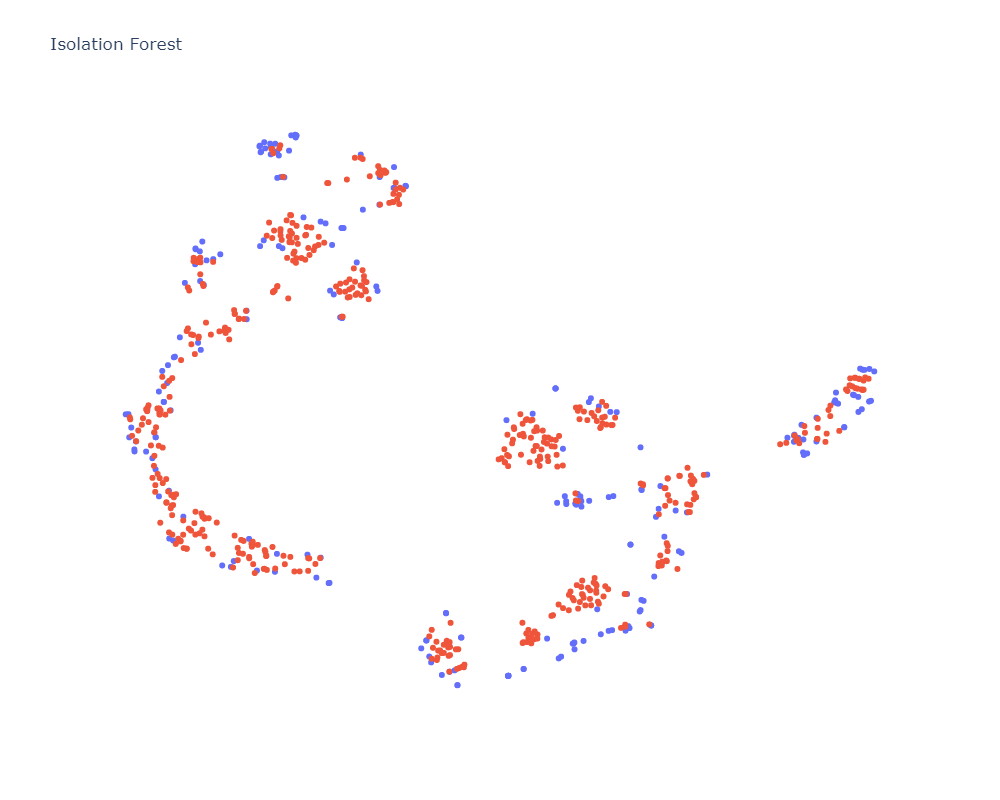
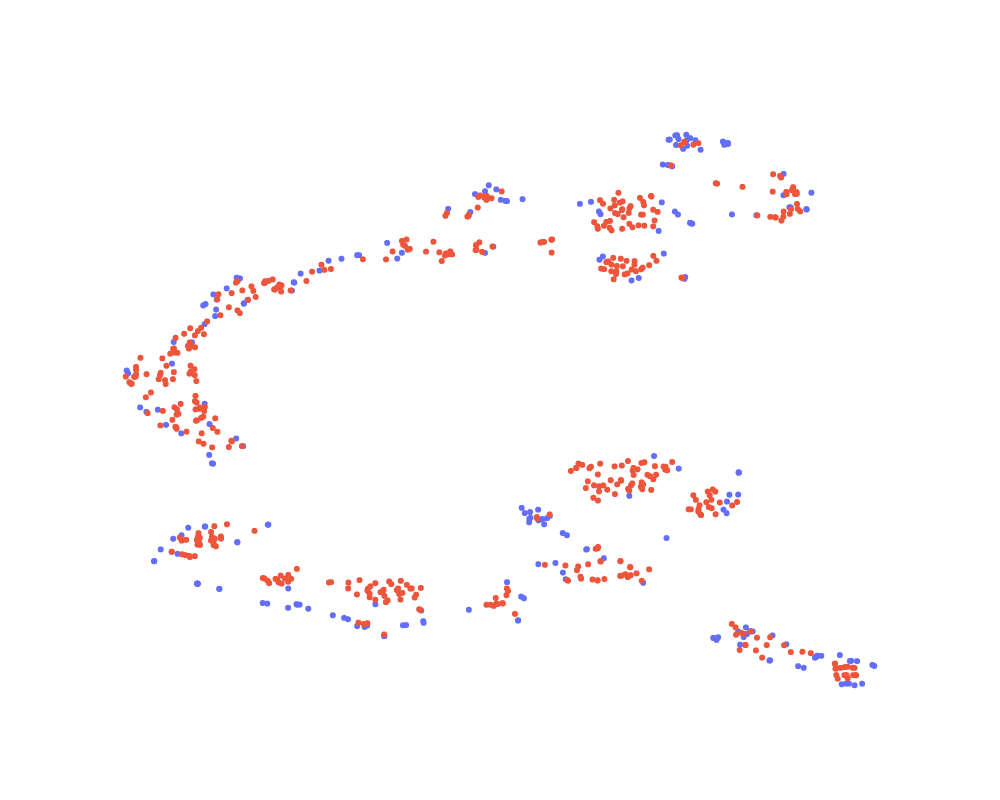
termino el dash

diff --git a/dashboard/index.html b/dashboard/index.html
@@ -209,15 +209,18 @@
     <!--Modelo-->
     <section id="Modelo">
       <div class="container-fluid">
+
+
         <div class="row">
 
           <div class="col-12 col-lg-6 pl-0 pr-0">
 
-            <!-- <img src="assets/results/matriz.png" alt="matriz"> -->
-
             <div id="carouselExampleSlidesOnly" class="carousel slide" data-bs-ride="carousel">
               <div class="carousel-inner">
                 <div class="carousel-item active">
+                  <img src="assets/images/outliers2.png" class="d-block w-100" alt="Outliers">
+                </div>
+                <div class="carousel-item">
                   <img src="assets/images/isolationforest.png" class="d-block w-100" alt="Isolation forest">
                 </div>
                 <div class="carousel-item">
@@ -233,16 +236,17 @@
           </div>
           
           <div class="col-12 col-lg-6 pt-4 pb-4">
-            
-            <!-- <img src="assets/results/precision.png" alt="precision"> -->
+
             <h2>Modelos</h2>
-            <p>Se Ajustaron 3 modelos, una Red Neuronal Convolucional, un Bosque Aleatorio y una Regresión Logística. Se calificaron con las métricas de f1_score, accuracy, precision_score, recall_score y matriz de confusión, dándole más relevancia a esta última.</p>
+            <p> Se Ajustaron 3 modelos, un local outlier Factor, un unsupervised Outlier Detection y un isolation forest (ISO). Posteriormente se utilizó método de voting classifier para elegir los atípicos. </p>
 
             <button type="button" class="btn btn-green" data-bs-toggle="modal" data-bs-target="#modalCode"> Codigo </button>
           
           </div>
 
         </div>
+
+        
       </div>
     </section>
     <!--/Modelo-->
@@ -266,7 +270,7 @@
               <div class="card-body">
   
                 <h5 class="card-title"> Resultados </h5>
-                <p class="card-text"> Inicialmente se tiene que el modelo CNN tiene problemas ya que las redes neuronales son demandantes en imagenes por lo cual este modelo presenta sobreajuste, la Regresión Logística es un modelo no es demandante en muestras. Al comparar las metricas númericas la Regresión Logística presenta mejores metricas sobre todos los modelos tambien presenta la mejor matriz de confusion, por ultimo el tiempo de ajuste de modelos el modelo CNN tarda aproximadamente 15 minutos en ser entrenado, la Regresión Logística tarda solo tarda 1 segundo. </p>
+                <p class="card-text"> Se obtuvo 8 solo posible atípico de las 1000 observaciones, lo que corresponde al 0.008%, acorde con la documentación consultada. </p>
   
               </div>
             </div>
@@ -277,9 +281,10 @@
               <div class="card-body">
               
                 <h5 class="card-title"> Sugerencias </h5>
-                <p class="card-text"> Realizar un nuevo diseño de experimento. </p>
-                <p class="card-text"> Aumentar las muestras, ya que estos modelos pueden ser potencializados con mayores y mejores imagenes. </p>
-                <p class="card-text"> Se elige la Regresión Logística por presentar mejores tiempos y metricas. </p>
+                <small> Realizar un nuevo diseño de experimento. <br>
+                        Aumentar las muestras, ya que estos modelos pueden ser potencializados con mayor cantidad de muestras. <br>
+                        Se elige el método de voting para reducir la posibilidad de falsos positivos. <br>
+                </small>
 
               </div>
             </div>
